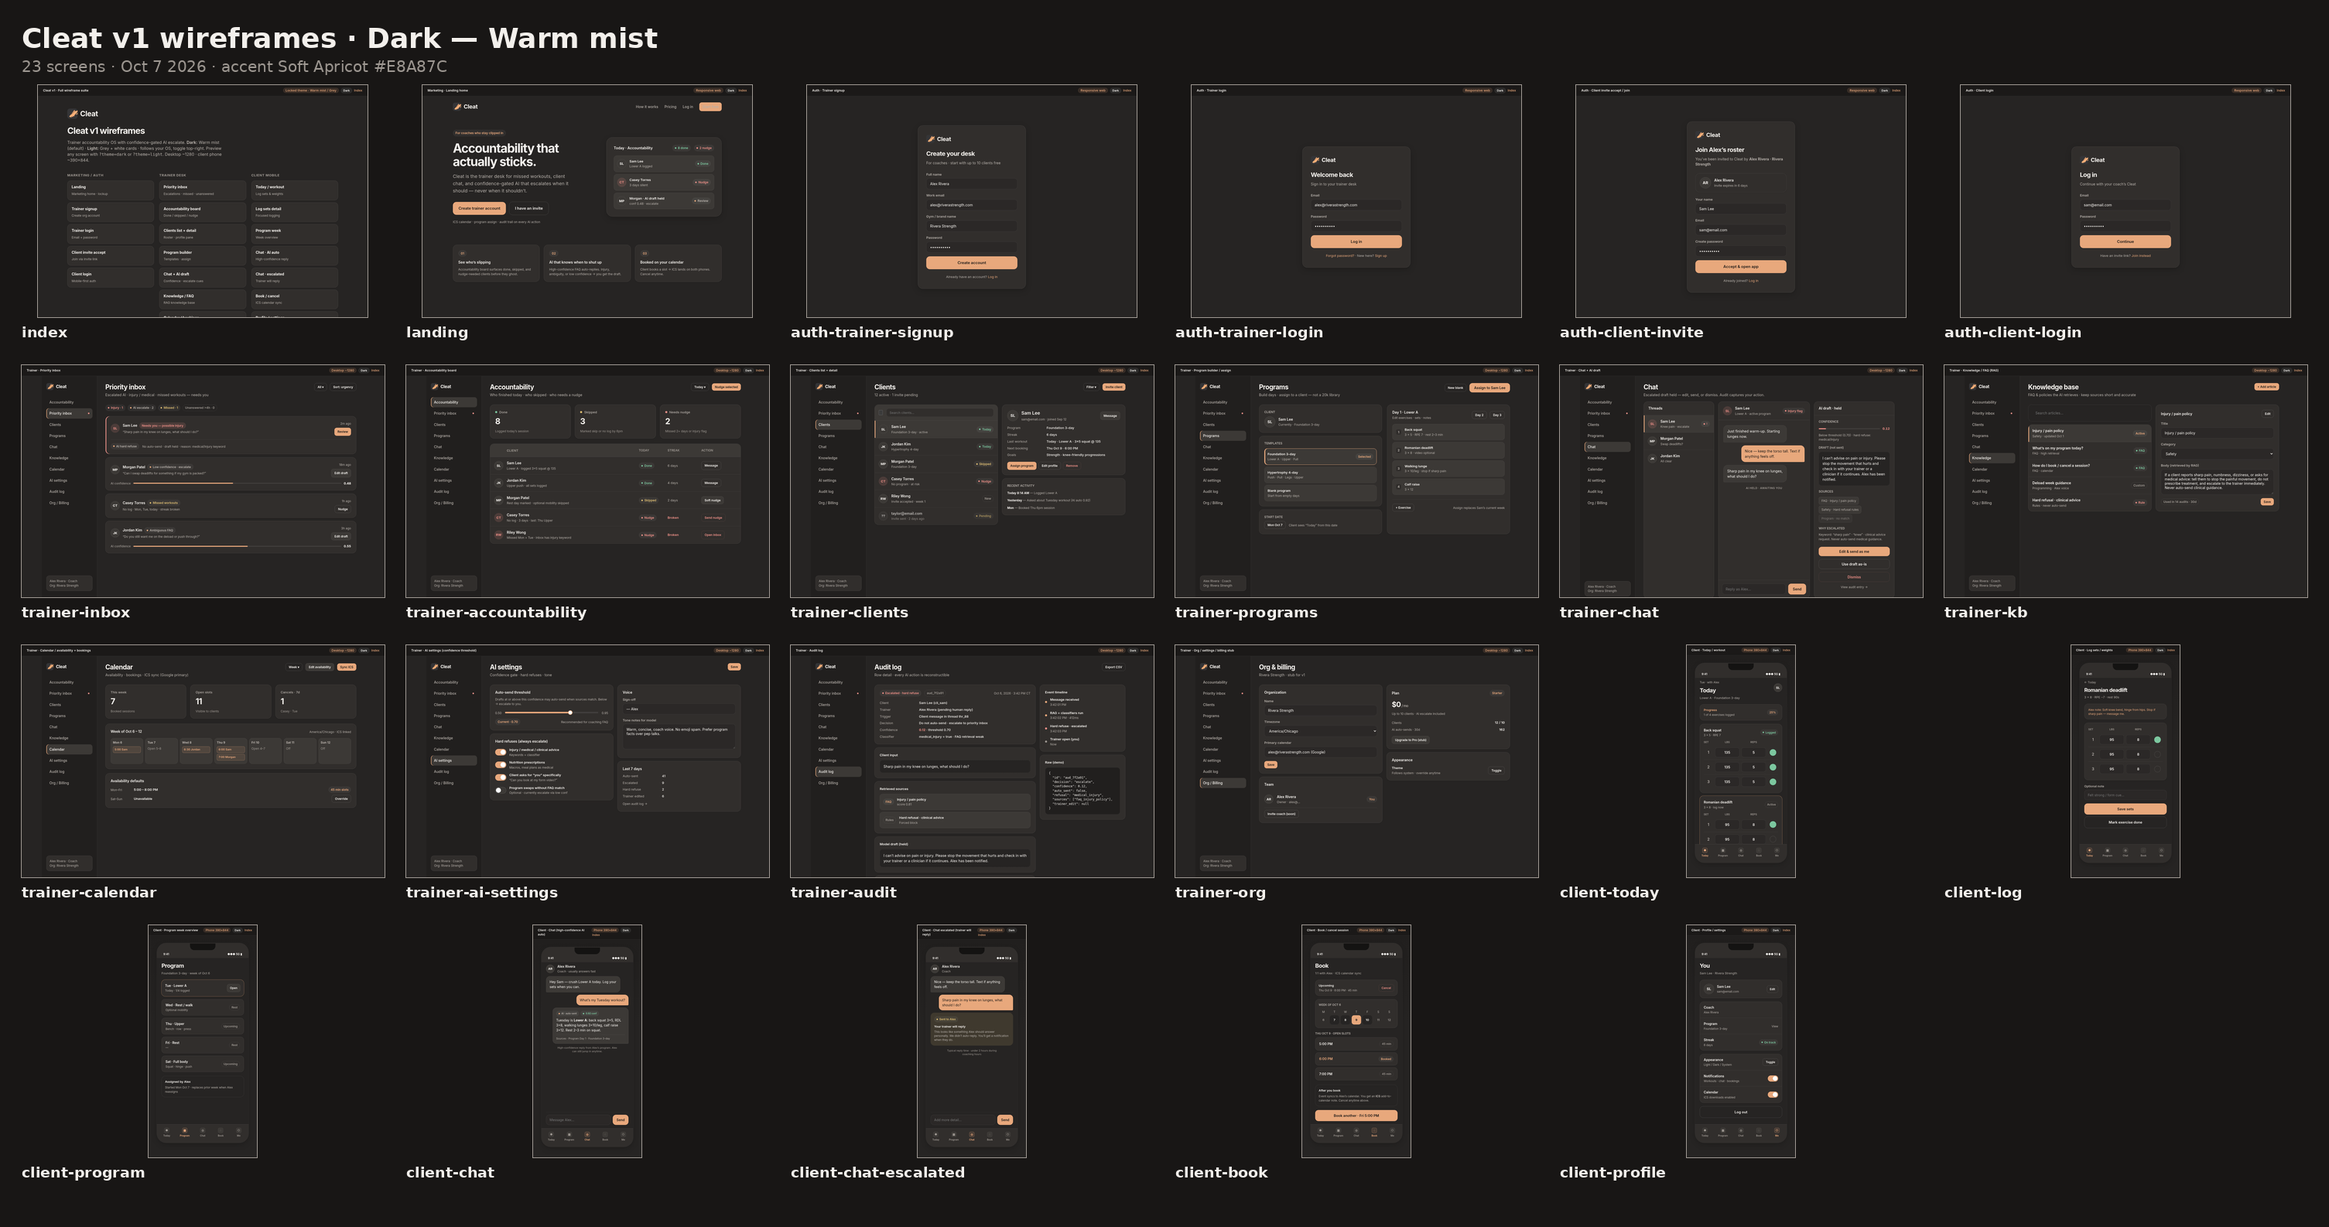
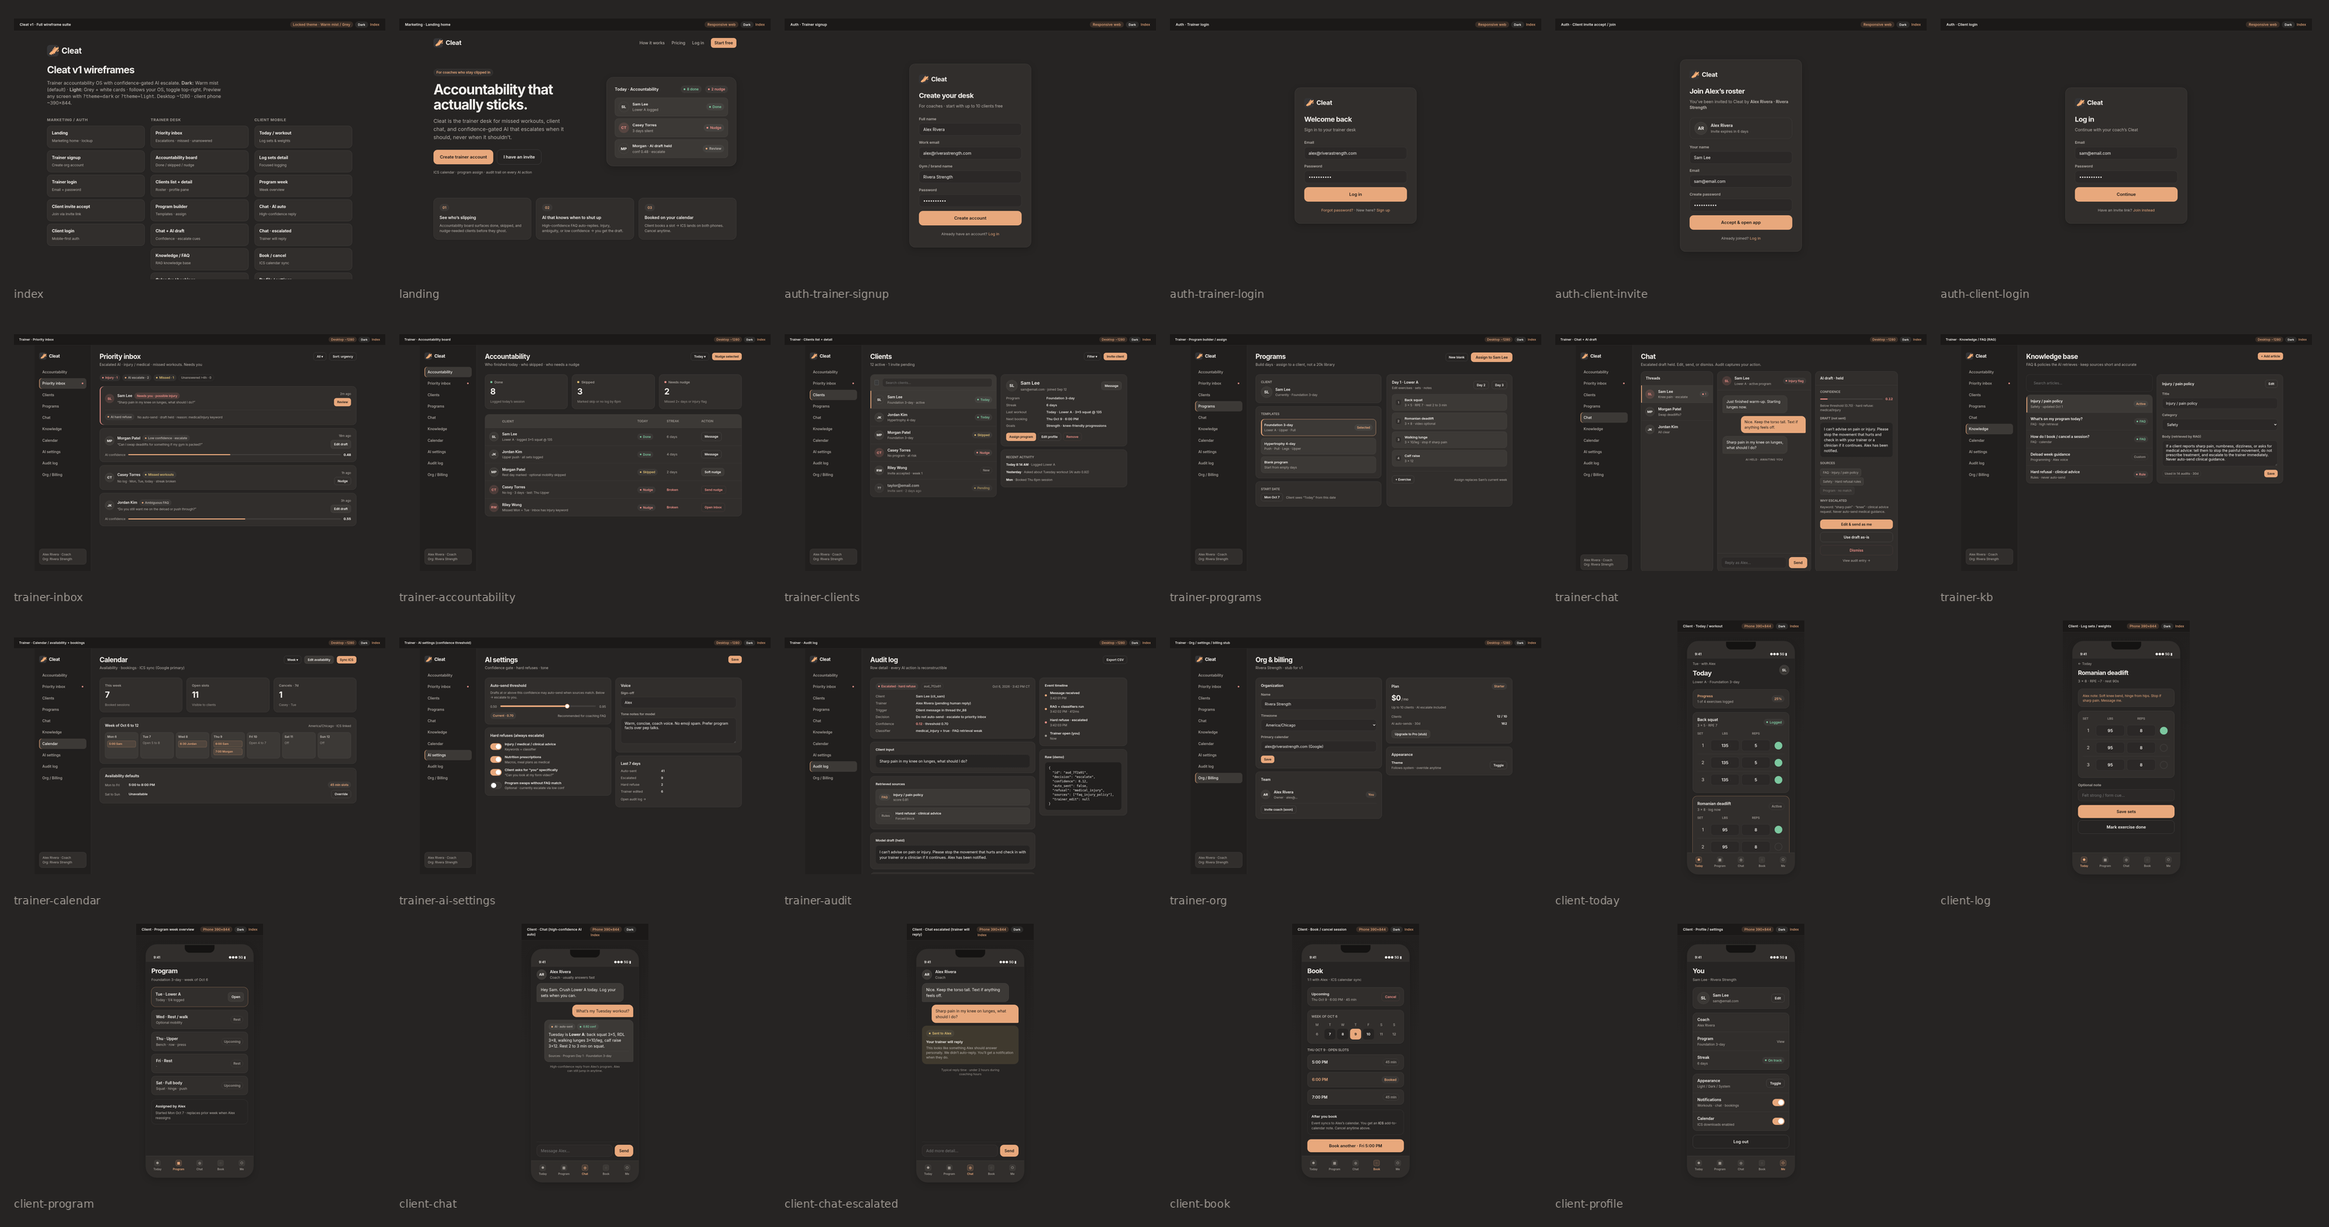
design-refs: Final design doc (approved Oct 7) and copy-rule wireframe updates

diff --git a/trainer-calendar.html b/trainer-calendar.html
@@ -3,7 +3,7 @@
 <head>
   <meta charset="UTF-8" />
   <meta name="viewport" content="width=device-width, initial-scale=1" />
-  <title>Calendar — Cleat</title>
+  <title>Calendar · Cleat</title>
   <link rel="stylesheet" href="shared.css" />
   
 </head>
@@ -52,16 +52,16 @@
       </div>
       <div class="card">
         <div class="row" style="margin-bottom:16px">
-          <div class="name">Week of Oct 6 – 12</div>
+          <div class="name">Week of Oct 6 to 12</div>
           <div class="spacer"></div>
           <span class="meta">America/Chicago · ICS linked</span>
         </div>
         <div class="cal-grid">
           <div class="cal-cell"><div class="day">Mon 6</div><div class="cal-event">5:00 Sam</div></div>
-          <div class="cal-cell"><div class="day">Tue 7</div><div class="meta" style="color:var(--faint)">Open 5–8</div></div>
+          <div class="cal-cell"><div class="day">Tue 7</div><div class="meta" style="color:var(--faint)">Open 5 to 8</div></div>
           <div class="cal-cell"><div class="day">Wed 8</div><div class="cal-event">6:30 Jordan</div></div>
           <div class="cal-cell"><div class="day">Thu 9</div><div class="cal-event">6:00 Sam</div><div class="cal-event">7:00 Morgan</div></div>
-          <div class="cal-cell"><div class="day">Fri 10</div><div class="meta" style="color:var(--faint)">Open 4–7</div></div>
+          <div class="cal-cell"><div class="day">Fri 10</div><div class="meta" style="color:var(--faint)">Open 4 to 7</div></div>
           <div class="cal-cell"><div class="day">Sat 11</div><div class="meta" style="color:var(--faint)">Off</div></div>
           <div class="cal-cell"><div class="day">Sun 12</div><div class="meta" style="color:var(--faint)">Off</div></div>
         </div>
@@ -69,8 +69,8 @@
       <div class="card" style="margin-top:16px">
         <div class="name" style="margin-bottom:12px">Availability defaults</div>
         <div class="stack" style="gap:8px">
-          <div class="row"><span class="meta" style="width:80px">Mon–Fri</span><span class="name" style="font-size:13px">5:00 – 8:00 PM</span><div class="spacer"></div><span class="pill pill-accent">45 min slots</span></div>
-          <div class="row"><span class="meta" style="width:80px">Sat–Sun</span><span class="name" style="font-size:13px">Unavailable</span><div class="spacer"></div><button class="btn btn-ghost btn-sm">Override</button></div>
+          <div class="row"><span class="meta" style="width:80px">Mon to Fri</span><span class="name" style="font-size:13px">5:00 to 8:00 PM</span><div class="spacer"></div><span class="pill pill-accent">45 min slots</span></div>
+          <div class="row"><span class="meta" style="width:80px">Sat to Sun</span><span class="name" style="font-size:13px">Unavailable</span><div class="spacer"></div><button class="btn btn-ghost btn-sm">Override</button></div>
         </div>
       </div>
     </main>

diff --git a/trainer-programs.html b/trainer-programs.html
@@ -3,7 +3,7 @@
 <head>
   <meta charset="UTF-8" />
   <meta name="viewport" content="width=device-width, initial-scale=1" />
-  <title>Programs — Cleat</title>
+  <title>Programs · Cleat</title>
   <link rel="stylesheet" href="shared.css" />
   
 </head>
@@ -37,7 +37,7 @@
       <div class="page-head">
         <div>
           <h1>Programs</h1>
-          <p>Build days · assign to a client — not a 20k library</p>
+          <p>Build days · assign to a client, not a 20k library</p>
         </div>
         <div class="row">
           <button class="btn btn-ghost btn-sm">New blank</button>
@@ -99,7 +99,7 @@
             <button class="btn btn-ghost btn-sm">Day 3</button>
           </div>
           <div class="stack" style="gap:8px">
-            <div class="exercise"><div class="ord">1</div><div class="spacer"><div class="name" style="font-size:13px">Back squat</div><div class="meta">3 × 5 · RPE 7 · rest 2–3 min</div></div></div>
+            <div class="exercise"><div class="ord">1</div><div class="spacer"><div class="name" style="font-size:13px">Back squat</div><div class="meta">3 × 5 · RPE 7 · rest 2 to 3 min</div></div></div>
             <div class="exercise"><div class="ord">2</div><div class="spacer"><div class="name" style="font-size:13px">Romanian deadlift</div><div class="meta">3 × 8 · video optional</div></div></div>
             <div class="exercise"><div class="ord">3</div><div class="spacer"><div class="name" style="font-size:13px">Walking lunge</div><div class="meta">3 × 10/leg · stop if sharp pain</div></div></div>
             <div class="exercise"><div class="ord">4</div><div class="spacer"><div class="name" style="font-size:13px">Calf raise</div><div class="meta">3 × 12</div></div></div>

diff --git a/client-chat.html b/client-chat.html
@@ -3,7 +3,7 @@
 <head>
   <meta charset="UTF-8" />
   <meta name="viewport" content="width=device-width, initial-scale=1" />
-  <title>Chat — Cleat</title>
+  <title>Chat · Cleat</title>
   <link rel="stylesheet" href="shared.css" />
   
 </head>
@@ -26,14 +26,14 @@
           <div><div class="name">Alex Rivera</div><div class="meta">Coach · usually answers fast</div></div>
         </div>
         <div style="flex:1;display:flex;flex-direction:column;gap:10px;padding-bottom:12px">
-          <div class="bubble them" style="max-width:90%">Hey Sam — crush Lower A today. Log your sets when you can.</div>
+          <div class="bubble them" style="max-width:90%">Hey Sam. Crush Lower A today. Log your sets when you can.</div>
           <div class="bubble me" style="max-width:90%">What’s my Tuesday workout?</div>
           <div class="bubble ai-tag" style="max-width:92%">
             <div class="row" style="margin-bottom:6px;gap:6px">
               <span class="pill pill-ai" style="font-size:10px">AI · auto-sent</span>
               <span class="pill pill-done" style="font-size:10px">0.92 conf</span>
             </div>
-            Tuesday is <strong>Lower A</strong>: back squat 3×5, RDL 3×8, walking lunges 3×10/leg, calf raise 3×12. Rest 2–3 min on squat.
+            Tuesday is <strong>Lower A</strong>: back squat 3×5, RDL 3×8, walking lunges 3×10/leg, calf raise 3×12. Rest 2 to 3 min on squat.
             <div class="src">Sources · Program Day 1 · Foundation 3-day</div>
           </div>
           <div style="align-self:center;font-size:11px;color:var(--faint);text-align:center;max-width:260px;line-height:1.4">

diff --git a/client-today.html b/client-today.html
@@ -3,7 +3,7 @@
 <head>
   <meta charset="UTF-8" />
   <meta name="viewport" content="width=device-width, initial-scale=1" />
-  <title>Today — Cleat</title>
+  <title>Today · Cleat</title>
   <link rel="stylesheet" href="shared.css" />
   
 </head>
@@ -64,7 +64,7 @@
           </div>
           <div class="set-row"><div style="text-align:center;font-weight:600;color:var(--sub)">1</div><input value="95" /><input value="8" /><div class="check on"></div></div>
           <div class="set-row"><div style="text-align:center;font-weight:600;color:var(--sub)">2</div><input value="95" /><input value="8" /><div class="check"></div></div>
-          <div class="set-row" style="border:none"><div style="text-align:center;font-weight:600;color:var(--sub)">3</div><input placeholder="—" /><input placeholder="—" /><div class="check"></div></div>
+          <div class="set-row" style="border:none"><div style="text-align:center;font-weight:600;color:var(--sub)">3</div><input placeholder="" /><input placeholder="" /><div class="check"></div></div>
         </div>
         <div class="card card-sm" style="margin-bottom:12px;opacity:0.7">
           <div class="row"><div class="name" style="font-size:14px">Walking lunge</div><span class="meta">3 × 10/leg</span></div>

diff --git a/trainer-chat.html b/trainer-chat.html
@@ -3,7 +3,7 @@
 <head>
   <meta charset="UTF-8" />
   <meta name="viewport" content="width=device-width, initial-scale=1" />
-  <title>Chat — Cleat</title>
+  <title>Chat · Cleat</title>
   <link rel="stylesheet" href="shared.css" />
   
 </head>
@@ -37,7 +37,7 @@
       <div class="page-head" style="margin-bottom:16px">
         <div>
           <h1>Chat</h1>
-          <p>Escalated draft held — edit, send, or dismiss. Audit captures your action.</p>
+          <p>Escalated draft held. Edit, send, or dismiss. Audit captures your action.</p>
         </div>
       </div>
       <div class="chat-wrap">
@@ -66,7 +66,7 @@
           </div>
           <div class="thread-body">
             <div class="bubble them">Just finished warm-up. Starting lunges now.</div>
-            <div class="bubble me">Nice — keep the torso tall. Text if anything feels off.</div>
+            <div class="bubble me">Nice. Keep the torso tall. Text if anything feels off.</div>
             <div class="bubble them">Sharp pain in my knee on lunges, what should I do?</div>
             <div style="align-self:center;font-size:11px;color:var(--faint);font-weight:600;letter-spacing:0.04em;text-transform:uppercase;margin:4px 0">AI held · awaiting you</div>
           </div>

diff --git a/trainer-clients.html b/trainer-clients.html
@@ -3,7 +3,7 @@
 <head>
   <meta charset="UTF-8" />
   <meta name="viewport" content="width=device-width, initial-scale=1" />
-  <title>Clients — Cleat</title>
+  <title>Clients · Cleat</title>
   <link rel="stylesheet" href="shared.css" />
   
 </head>
@@ -107,9 +107,9 @@
           <div class="card">
             <div style="font-size:12px;font-weight:600;color:var(--sub);margin-bottom:10px">RECENT ACTIVITY</div>
             <div class="stack" style="gap:10px">
-              <div class="meta"><strong style="color:var(--text)">Today 8:14 AM</strong> — Logged Lower A</div>
-              <div class="meta"><strong style="color:var(--text)">Yesterday</strong> — Asked about Tuesday workout (AI auto 0.92)</div>
-              <div class="meta"><strong style="color:var(--text)">Mon</strong> — Booked Thu 6pm session</div>
+              <div class="meta"><strong style="color:var(--text)">Today 8:14 AM</strong> · Logged Lower A</div>
+              <div class="meta"><strong style="color:var(--text)">Yesterday</strong> · Asked about Tuesday workout (AI auto 0.92)</div>
+              <div class="meta"><strong style="color:var(--text)">Mon</strong> · Booked Thu 6pm session</div>
             </div>
           </div>
         </div>

diff --git a/client-program.html b/client-program.html
@@ -3,7 +3,7 @@
 <head>
   <meta charset="UTF-8" />
   <meta name="viewport" content="width=device-width, initial-scale=1" />
-  <title>Program — Cleat</title>
+  <title>Program · Cleat</title>
   <link rel="stylesheet" href="shared.css" />
   
 </head>
@@ -41,7 +41,7 @@
           <div class="row"><div class="spacer"><div class="name" style="font-size:14px">Thu · Upper</div><div class="meta">Bench · row · press</div></div><span class="pill pill-muted">Upcoming</span></div>
         </div>
         <div class="card card-sm" style="margin-bottom:10px">
-          <div class="row"><div class="spacer"><div class="name" style="font-size:14px">Fri · Rest</div><div class="meta">—</div></div><span class="pill pill-muted">Rest</span></div>
+          <div class="row"><div class="spacer"><div class="name" style="font-size:14px">Fri · Rest</div><div class="meta">·</div></div><span class="pill pill-muted">Rest</span></div>
         </div>
         <div class="card card-sm" style="margin-bottom:10px">
           <div class="row"><div class="spacer"><div class="name" style="font-size:14px">Sat · Full body</div><div class="meta">Squat · hinge · push</div></div><span class="pill pill-muted">Upcoming</span></div>

diff --git a/trainer-inbox.html b/trainer-inbox.html
@@ -3,7 +3,7 @@
 <head>
   <meta charset="UTF-8" />
   <meta name="viewport" content="width=device-width, initial-scale=1" />
-  <title>Priority inbox — Cleat</title>
+  <title>Priority inbox · Cleat</title>
   <link rel="stylesheet" href="shared.css" />
   
 </head>
@@ -37,7 +37,7 @@
       <div class="page-head">
         <div>
           <h1>Priority inbox</h1>
-          <p>Escalated AI · injury / medical · missed workouts — needs you</p>
+          <p>Escalated AI · injury / medical · missed workouts. Needs you</p>
         </div>
         <div class="row">
           <button class="btn btn-ghost btn-sm">All ▾</button>
@@ -57,7 +57,7 @@
             <div class="spacer">
               <div class="row" style="gap:8px;margin-bottom:4px">
                 <span class="name">Sam Lee</span>
-                <span class="pill pill-urgent">Needs you — possible injury</span>
+                <span class="pill pill-urgent">Needs you · possible injury</span>
               </div>
               <div class="meta">“Sharp pain in my knee on lunges, what should I do?”</div>
             </div>

diff --git a/landing.html b/landing.html
@@ -3,7 +3,7 @@
 <head>
   <meta charset="UTF-8" />
   <meta name="viewport" content="width=device-width, initial-scale=1" />
-  <title>Landing — Cleat</title>
+  <title>Landing · Cleat</title>
   <link rel="stylesheet" href="shared.css" />
   
 </head>
@@ -30,7 +30,7 @@
       <div>
         <span class="pill pill-accent">For coaches who stay clipped in</span>
         <h1>Accountability that actually sticks.</h1>
-        <p class="lede">Cleat is the trainer desk for missed workouts, client chat, and confidence-gated AI that escalates when it should — never when it shouldn’t.</p>
+        <p class="lede">Cleat is the trainer desk for missed workouts, client chat, and confidence-gated AI that escalates when it should, never when it shouldn’t.</p>
         <div class="row" style="gap:12px;flex-wrap:wrap">
           <a class="btn btn-primary btn-lg" style="width:auto" href="auth-trainer-signup.html">Create trainer account</a>
           <a class="btn btn-ghost btn-lg" style="width:auto" href="auth-client-invite.html">I have an invite</a>

diff --git a/client-chat-escalated.html b/client-chat-escalated.html
@@ -3,7 +3,7 @@
 <head>
   <meta charset="UTF-8" />
   <meta name="viewport" content="width=device-width, initial-scale=1" />
-  <title>Chat escalated — Cleat</title>
+  <title>Chat escalated · Cleat</title>
   <link rel="stylesheet" href="shared.css" />
   
 </head>
@@ -26,7 +26,7 @@
           <div><div class="name">Alex Rivera</div><div class="meta">Coach</div></div>
         </div>
         <div style="flex:1;display:flex;flex-direction:column;gap:10px;padding-bottom:12px">
-          <div class="bubble them" style="max-width:90%">Nice — keep the torso tall. Text if anything feels off.</div>
+          <div class="bubble them" style="max-width:90%">Nice. Keep the torso tall. Text if anything feels off.</div>
           <div class="bubble me" style="max-width:90%">Sharp pain in my knee on lunges, what should I do?</div>
           <div class="card" style="padding:14px;background:var(--warn-bg);border-color:transparent;box-shadow:none;align-self:stretch">
             <div class="row" style="margin-bottom:8px;gap:8px">

diff --git a/client-log.html b/client-log.html
@@ -3,7 +3,7 @@
 <head>
   <meta charset="UTF-8" />
   <meta name="viewport" content="width=device-width, initial-scale=1" />
-  <title>Log sets — Cleat</title>
+  <title>Log sets · Cleat</title>
   <link rel="stylesheet" href="shared.css" />
   
 </head>
@@ -29,7 +29,7 @@
         <div class="m-title" style="font-size:22px">Romanian deadlift</div>
         <div class="m-sub">3 × 8 · RPE ~7 · rest 90s</div>
         <div class="card callout" style="margin-bottom:14px">
-          <div class="meta" style="color:var(--accent-text);line-height:1.45">Alex note: Soft knee bend, hinge from hips. Stop if sharp pain — message me.</div>
+          <div class="meta" style="color:var(--accent-text);line-height:1.45">Alex note: Soft knee bend, hinge from hips. Stop if sharp pain. Message me.</div>
         </div>
         <div class="card" style="padding:16px;margin-bottom:16px">
           <div class="set-row" style="border:none;padding:4px 0;font-size:11px;color:var(--faint);font-weight:600">

diff --git a/trainer-audit.html b/trainer-audit.html
@@ -3,7 +3,7 @@
 <head>
   <meta charset="UTF-8" />
   <meta name="viewport" content="width=device-width, initial-scale=1" />
-  <title>Audit log — Cleat</title>
+  <title>Audit log · Cleat</title>
   <link rel="stylesheet" href="shared.css" />
   
 </head>
@@ -76,7 +76,7 @@
           </div>
           <div class="card">
             <div style="font-size:13px;font-weight:600;margin-bottom:10px">Trainer action</div>
-            <div class="meta">Pending — opened from inbox · no edit yet</div>
+            <div class="meta">Pending. Opened from inbox · no edit yet</div>
             <div class="row" style="margin-top:12px">
               <a class="btn btn-primary btn-sm" href="trainer-chat.html">Continue in chat</a>
               <button class="btn btn-ghost btn-sm">Mark reviewed</button>
